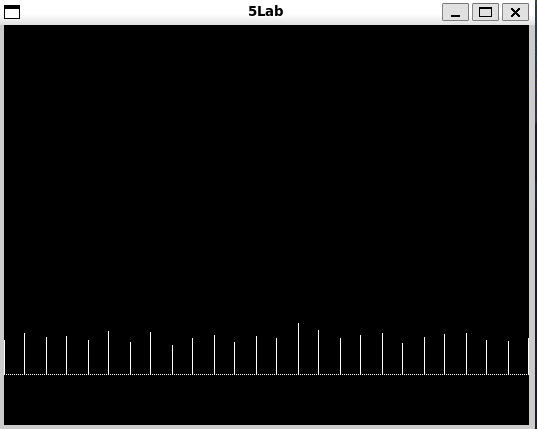
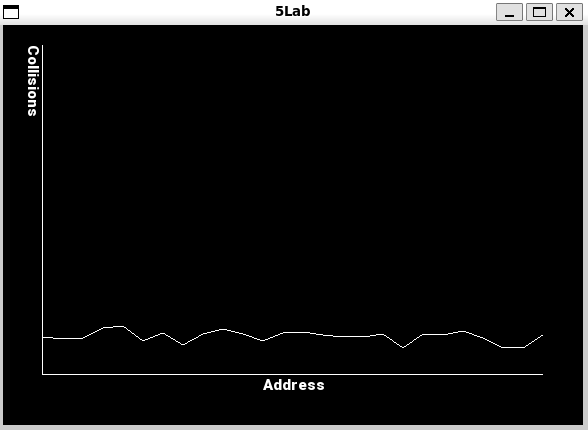
nice graph

diff --git a/5/1.1.cpp b/5/1.1.cpp
@@ -1,5 +1,6 @@
 #include <SFML/Graphics.hpp>
 #include <iostream>
+#include <cmath>
 
 const int maxV = 122;
 const int minV = 97;
@@ -11,27 +12,60 @@ int hash(char secondName)
 
 int main()
 {
-    system("chcp 1251");
     srand(time(NULL));
 
     char letter = rand() % (maxV - minV + 1) + minV;
 
     int keys[526];
+    int help[26];
+    int counter = 0;
+    int xPos = 20;
 
-    for (int i = 0; i <= 526; i++)
+    for (int i = 0; i < 526; i++)
     {
         keys[i] = 0;
     }
 
-    for (int i = 0; i < 1000; i++)
+    for (int i = 0; i < 10000; i++)
     {
         char letter = rand() % (maxV - minV + 1) + minV;
         int numberOfAddress = hash(letter);
         keys[numberOfAddress]++;
     }
 
-    sf::RenderWindow window(sf::VideoMode(525, 400), "5Lab");
-    sf::VertexArray curve(sf::Lines, 800);
+    for (int i = 0; i < 526; i++)
+    {
+        if (keys[i] != 0)
+        {
+            help[counter] = i;
+            counter++;
+        }
+    }
+
+    sf::RenderWindow window(sf::VideoMode(580, 400), "5Lab");
+
+    sf::VertexArray curve(sf::LinesStrip, 26);
+
+    sf::VertexArray Ox(sf::LinesStrip, 2);
+    sf::VertexArray Oy(sf::LinesStrip, 2);
+
+    sf::Text legendOx;
+    sf::Text legendOy;
+    sf::Font font;
+
+    font.loadFromFile("Roboto-Black.ttf");
+
+    legendOx.setString("Address");
+    legendOy.setString("Collisions");
+
+    legendOy.setFont(font);
+    legendOy.setFillColor(sf::Color::White);
+    legendOy.setCharacterSize(15);
+    legendOy.rotate(90);
+
+    legendOx.setFont(font);
+    legendOx.setFillColor(sf::Color::White);
+    legendOx.setCharacterSize(15);
 
     while (window.isOpen())
     {
@@ -43,11 +77,26 @@ int main()
         }
         window.clear();
 
-        for (int i = 0; i < 800; i++)
+        for (int i = 0; i < 26; i++)
         {
-            curve.append(sf::Vertex(sf::Vector2f(i, 350 - keys[i])));
+            curve[i].position = sf::Vector2f((i + 2) * 20, 350 - keys[help[i]]);
             window.draw(curve);
         }
+
+        Oy[0].position = sf::Vector2f(40, 20);
+        Oy[1].position = sf::Vector2f(40, 350);
+        legendOy.setPosition(40, 20);
+
+        window.draw(legendOy);
+        window.draw(Oy);
+
+        Ox[0].position = sf::Vector2f(40, 350);
+        Ox[1].position = sf::Vector2f(540, 350);
+        legendOx.setPosition(260, 350);
+
+        window.draw(legendOx);
+        window.draw(Ox);
+
         window.display();
     }
     return 0;
